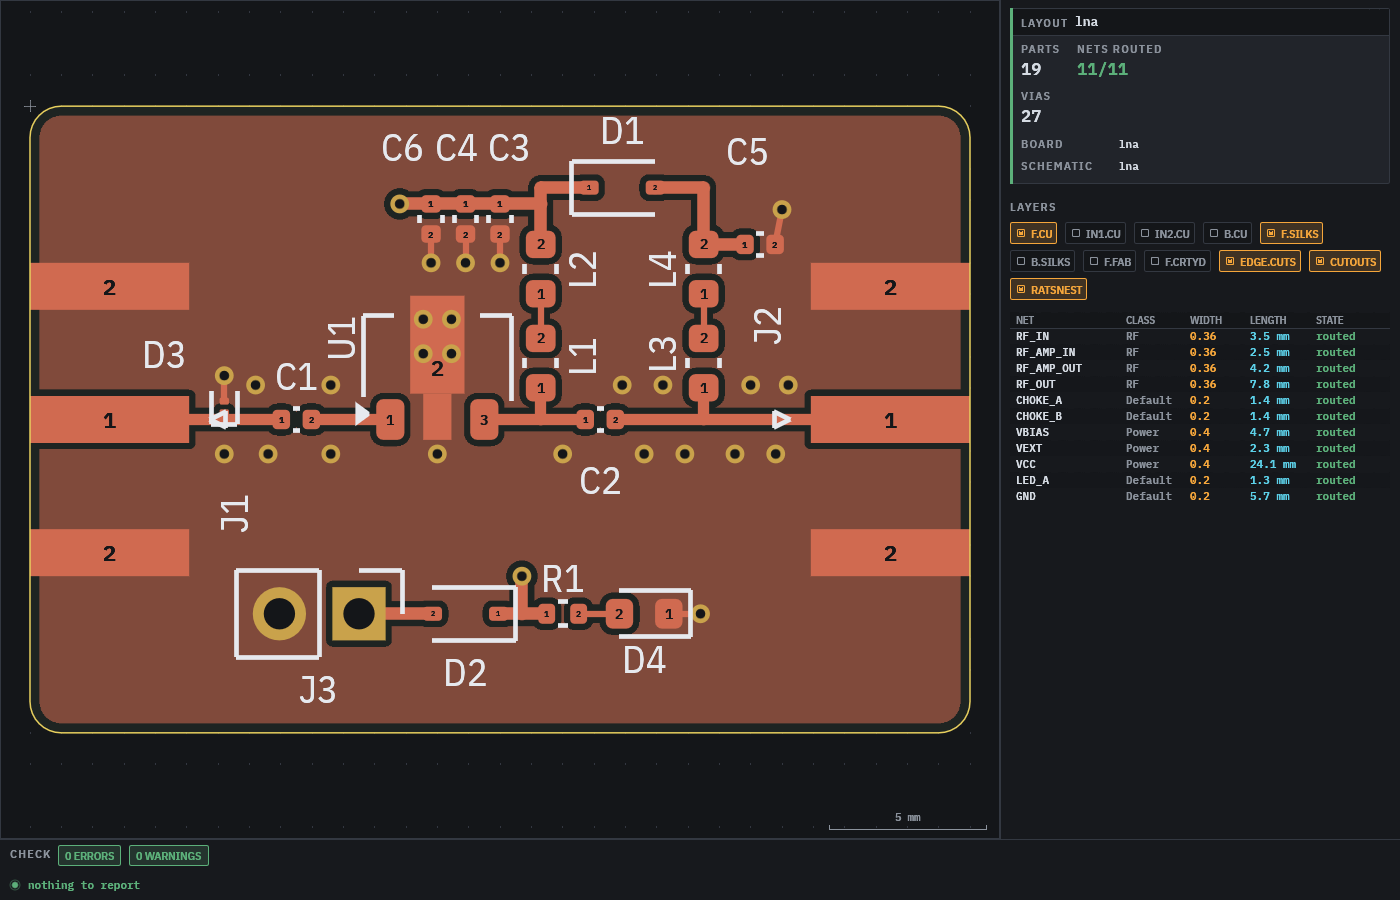
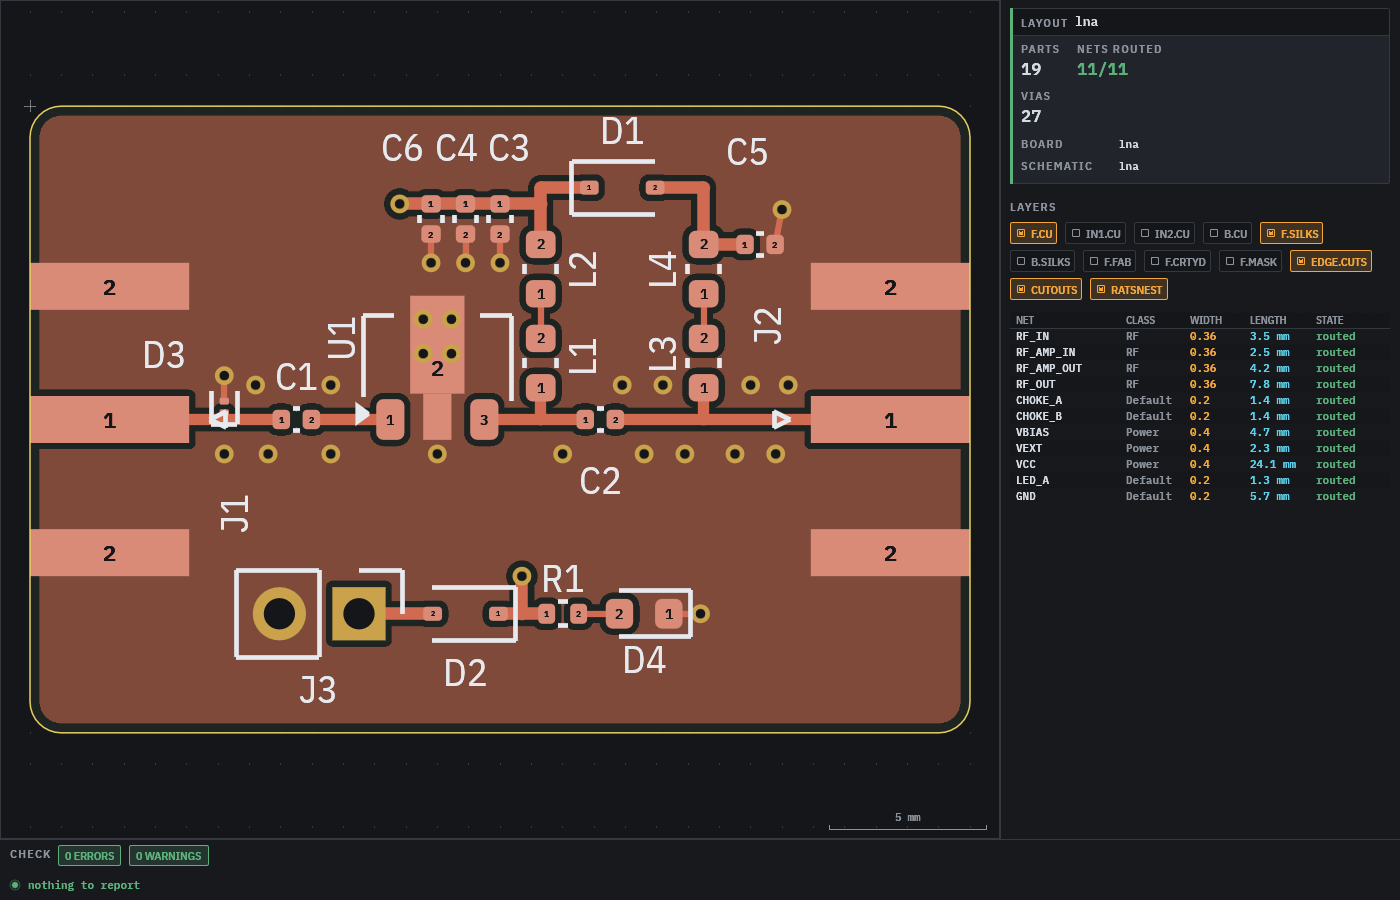
Fab labels fit their parts, render layer and region flags

diff --git a/crates/agentee-view/src/pcb.rs b/crates/agentee-view/src/pcb.rs
@@ -149,7 +149,11 @@ pub fn layout(
                 if !pad.copper.iter().any(|c| c == layer) {
                     continue;
                 }
-                let c = if pad.copper.len() > 1 { paint::PTH } else { color };
+                let c = if pad.copper.len() > 1 {
+                    paint::PTH
+                } else {
+                    color.lerp_to_gamma(Color32::WHITE, 0.22)
+                };
                 let lit = hit.net.is_some() && pad.net == hit.net || hit.pad == Some((pi, k));
                 let c = if lit { c.lerp_to_gamma(Color32::WHITE, 0.35) } else { c };
                 for o in &pad.outlines {
@@ -195,13 +199,65 @@ pub fn layout(
                 || !layers.shows(&layer)
                 || layer.ends_with("Mask")
                 || layer.ends_with("Paste")
-                || (layer.ends_with(".SilkS") && matches!(g.shape, Shape::Text { .. }))
+                || ((layer.ends_with(".SilkS") || layer.ends_with(".Fab"))
+                    && matches!(g.shape, Shape::Text { .. }))
             {
                 continue;
             }
             let g = substitute(g, &part.reference, &part.value);
             let col = layer_color(&layer);
             paint::graphic(p, &placed, &g, col, col.gamma_multiply(0.25));
+        }
+        for side in ["F", "B"] {
+            let fab = format!("{side}.Fab");
+            if !layers.shows(&fab) {
+                continue;
+            }
+            let mut body = agentee_core::graphic::Bounds::EMPTY;
+            for g in part.footprint.graphics.iter().filter(|g| part.flip_layer(&g.layer) == fab) {
+                if !matches!(g.shape, Shape::Text { .. }) {
+                    body.union(&g.bounds());
+                }
+            }
+            if body.is_empty() {
+                continue;
+            }
+            let t = part.transform();
+            let mut world = agentee_core::graphic::Bounds::EMPTY;
+            for c in [body.min, body.max] {
+                world.add(t.apply(c));
+            }
+            let [w, h] = world.size();
+            let (long, short, angle) =
+                if h > w { (h, w, -std::f32::consts::FRAC_PI_2) } else { (w, h, 0.0) };
+            let chars = part.reference.chars().count().max(1) as f64;
+            let size = (long * 0.8 / (0.62 * chars)).min(short * 0.6).min(1.0);
+            if xf.len(size) < 3.0 {
+                continue;
+            }
+            text(
+                p,
+                xf.world(world.center()),
+                &part.reference,
+                Ink {
+                    px: xf.len(size) * 1.25,
+                    color: layer_color(&fab),
+                    angle,
+                    anchor: Align2::CENTER_CENTER,
+                    font: FontFamily::Proportional,
+                },
+            );
+        }
+        for side in ["F.Mask", "B.Mask"] {
+            if !layers.shows(side) {
+                continue;
+            }
+            for pad in part.pads.iter().filter(|q| q.mask.iter().any(|m| m == side)) {
+                for o in &pad.outlines {
+                    let pts: Vec<Pos2> = o.iter().map(|q| xf.world(*q)).collect();
+                    p.add(PathShape::closed_line(pts, Stroke::new(1.2, layer_color(side))));
+                }
+            }
         }
         for t in part.silk_texts(pi) {
             if !layers.shows(&t.layer) {

diff --git a/crates/agentee-view/src/pages.rs b/crates/agentee-view/src/pages.rs
@@ -25,6 +25,7 @@ pub struct PageState {
     pub ratsnest: bool,
     pub zone_key: Option<(u64, usize)>,
     pub zone_tex: Vec<egui::TextureHandle>,
+    pub region: Option<agentee_core::graphic::Bounds>,
 }
 
 impl Default for PageState {
@@ -41,6 +42,7 @@ impl Default for PageState {
             ratsnest: true,
             zone_key: None,
             zone_tex: Vec::new(),
+            region: None,
         }
     }
 }
@@ -167,8 +169,8 @@ fn symbol_canvas(ui: &mut Ui, s: &Symbol, st: &mut PageState) {
         padded.add([b.min[0], b.min[1] - 2.5]);
         padded.add([b.max[0], b.max[1] + 2.5]);
     }
-    st.view.max_fit = 45.0;
-    let (resp, xf) = st.view.show(ui, &padded, 40.0);
+    st.view.max_fit = if st.region.is_some() { 4000.0 } else { 45.0 };
+    let (resp, xf) = st.view.show(ui, &st.region.unwrap_or(padded), 40.0);
     let p = ui.painter_at(xf.rect);
     paint::grid(&p, &xf, 1.27);
     let hover = if st.interactive { resp.hover_pos() } else { None };
@@ -195,7 +197,7 @@ fn symbol_canvas(ui: &mut Ui, s: &Symbol, st: &mut PageState) {
 
 fn footprint_canvas(ui: &mut Ui, fp: &Footprint, st: &mut PageState) {
     st.view.max_fit = 2000.0;
-    let (resp, xf) = st.view.show(ui, &fp.bounds(), 40.0);
+    let (resp, xf) = st.view.show(ui, &st.region.unwrap_or(fp.bounds()), 40.0);
     let p = ui.painter_at(xf.rect);
     paint::grid(&p, &xf, 0.5);
     let hover = if st.interactive { resp.hover_pos() } else { None };
@@ -733,8 +735,8 @@ fn netclasses(ui: &mut Ui, b: &Board) {
 }
 
 fn schematic_canvas(ui: &mut Ui, s: &Schematic, st: &mut PageState) {
-    st.view.max_fit = 45.0;
-    let (resp, xf) = st.view.show(ui, &s.bounds(), 50.0);
+    st.view.max_fit = if st.region.is_some() { 4000.0 } else { 45.0 };
+    let (resp, xf) = st.view.show(ui, &st.region.unwrap_or(s.bounds()), 50.0);
     let p = ui.painter_at(xf.rect);
     paint::grid(&p, &xf, 2.54);
     let hover = if st.interactive { resp.hover_pos() } else { None };
@@ -803,7 +805,7 @@ fn layout_canvas(ui: &mut Ui, project: &Project, i: usize, st: &mut PageState) {
         st.zone_key = Some(key);
     }
     st.view.max_fit = 2000.0;
-    let (resp, xf) = st.view.show(ui, &l.bounds(), 30.0);
+    let (resp, xf) = st.view.show(ui, &st.region.unwrap_or(l.bounds()), 30.0);
     let p = ui.painter_at(xf.rect);
     paint::grid(&p, &xf, 1.0);
     let hover = if st.interactive { resp.hover_pos() } else { None };
@@ -858,7 +860,8 @@ fn layout_props(ui: &mut Ui, l: &Layout, st: &mut PageState) {
     Line::new().legend("layers").show(ui);
     let mut names: Vec<String> = l.copper.clone();
     names.extend(
-        ["F.SilkS", "B.SilkS", "F.Fab", "F.CrtYd", "Edge.Cuts", "Cutouts"].map(String::from),
+        ["F.SilkS", "B.SilkS", "F.Fab", "F.CrtYd", "F.Mask", "Edge.Cuts", "Cutouts"]
+            .map(String::from),
     );
     ui.horizontal_wrapped(|ui| {
         for n in &names {

diff --git a/crates/agentee/src/mcp.rs b/crates/agentee/src/mcp.rs
@@ -52,6 +52,9 @@ fn tools() -> Value {
                 "canvas_only": { "type": "boolean", "description": "drop the side panels" },
                 "hidden_pins": { "type": "boolean" },
                 "save_to": { "type": "string", "description": "also write the PNG here, relative to the project" },
+                "show": { "type": "array", "items": { "type": "string" }, "description": "layers to turn on, e.g. F.Fab, F.Mask, In1.Cu" },
+                "hide": { "type": "array", "items": { "type": "string" } },
+                "region": { "type": "array", "items": { "type": "number" }, "description": "zoom to [x0, y0, x1, y1] in mm" },
             }), &["name"]),
         },
         {
@@ -137,6 +140,13 @@ fn flag(a: &Value, k: &str) -> bool {
     a.get(k).and_then(Value::as_bool).unwrap_or(false)
 }
 
+fn strings(a: &Value, k: &str) -> Vec<String> {
+    a.get(k)
+        .and_then(Value::as_array)
+        .map(|v| v.iter().filter_map(Value::as_str).map(str::to_string).collect())
+        .unwrap_or_default()
+}
+
 fn int(a: &Value, k: &str, d: u64) -> u64 {
     a.get(k).and_then(Value::as_u64).unwrap_or(d)
 }
@@ -171,6 +181,14 @@ fn call(root: &Path, name: &str, a: &Value) -> Result<Value, String> {
                 unit: int(a, "unit", 1) as u32,
                 panels: !flag(a, "canvas_only"),
                 hidden_pins: flag(a, "hidden_pins"),
+                show: strings(a, "show"),
+                hide: strings(a, "hide"),
+                region: a.get("region").and_then(Value::as_array).filter(|v| v.len() == 4).map(
+                    |v| {
+                        let f = |i: usize| v[i].as_f64().unwrap_or(0.0);
+                        [f(0), f(1), f(2), f(3)]
+                    },
+                ),
                 ..Default::default()
             };
             let png = agentee_view::render_png(&p, r, &opts);

diff --git a/crates/agentee/src/main.rs b/crates/agentee/src/main.rs
@@ -83,6 +83,15 @@ enum Cmd {
         canvas_only: bool,
         #[arg(long)]
         hidden_pins: bool,
+        /// Layers to turn on, comma separated (F.Fab,F.Mask,In1.Cu)
+        #[arg(long, value_delimiter = ',')]
+        show: Vec<String>,
+        /// Layers to turn off, comma separated
+        #[arg(long, value_delimiter = ',')]
+        hide: Vec<String>,
+        /// Zoom to x0,y0,x1,y1 in mm
+        #[arg(long, value_delimiter = ',', allow_hyphen_values = true)]
+        region: Option<Vec<f64>>,
     },
     /// Open the viewer, it reloads when files change
     View {
@@ -216,6 +225,9 @@ fn run(cli: Cli) -> Result<bool, String> {
             unit,
             canvas_only,
             hidden_pins,
+            show,
+            hide,
+            region,
         } => {
             let p = ops::load(&project)?;
             let r = ops::find(&p, &name)?;
@@ -226,6 +238,9 @@ fn run(cli: Cli) -> Result<bool, String> {
                 unit,
                 panels: !canvas_only,
                 hidden_pins,
+                show,
+                hide,
+                region: region.filter(|r| r.len() == 4).map(|r| [r[0], r[1], r[2], r[3]]),
             };
             let png = agentee_view::render_png(&p, r, &opts);
             std::fs::write(&out, png).map_err(|e| format!("{}: {e}", out.display()))?;

diff --git a/crates/agentee-view/src/headless.rs b/crates/agentee-view/src/headless.rs
@@ -12,6 +12,9 @@ pub struct RenderOptions {
     pub unit: u32,
     pub panels: bool,
     pub hidden_pins: bool,
+    pub show: Vec<String>,
+    pub hide: Vec<String>,
+    pub region: Option<[f64; 4]>,
 }
 
 impl Default for RenderOptions {
@@ -23,6 +26,9 @@ impl Default for RenderOptions {
             unit: 1,
             panels: true,
             hidden_pins: false,
+            show: Vec::new(),
+            hide: Vec::new(),
+            region: None,
         }
     }
 }
@@ -50,6 +56,16 @@ pub fn render_rgba(
     };
     st.select(item);
     st.unit = opts.unit.max(1);
+    for layers in [&mut st.layers, &mut st.pcb_layers] {
+        layers.hidden.retain(|h| !opts.show.contains(h));
+        layers.hidden.extend(opts.hide.iter().cloned());
+    }
+    st.region = opts.region.map(|[x0, y0, x1, y1]| {
+        let mut b = agentee_core::graphic::Bounds::EMPTY;
+        b.add([x0, y0]);
+        b.add([x1, y1]);
+        b
+    });
     let mut textures = Textures::default();
     let mut last = None;
     for _ in 0..3 {

diff --git a/crates/agentee-core/src/layout.rs b/crates/agentee-core/src/layout.rs
@@ -150,6 +150,7 @@ pub struct PlacedPad {
     pub kind: PadKind,
     pub outlines: Vec<Vec<P>>,
     pub copper: Vec<String>,
+    pub mask: Vec<String>,
     pub drill: Option<(P, [f64; 2], f64)>,
 }
 
@@ -505,6 +506,11 @@ impl LayoutFile {
                             .map(|o| o.into_iter().map(|p| t.apply(p)).collect())
                             .collect(),
                         copper: layers,
+                        mask: ["F.Mask", "B.Mask"]
+                            .into_iter()
+                            .filter(|m| pad.on_layer(m))
+                            .map(|m| flip(m, bottom))
+                            .collect(),
                         drill: pad.drill.map(|dr| {
                             let s = dr.size().to_mm();
                             (t.apply(pad.at.to_mm()), s, pad.rotation + rotation)
